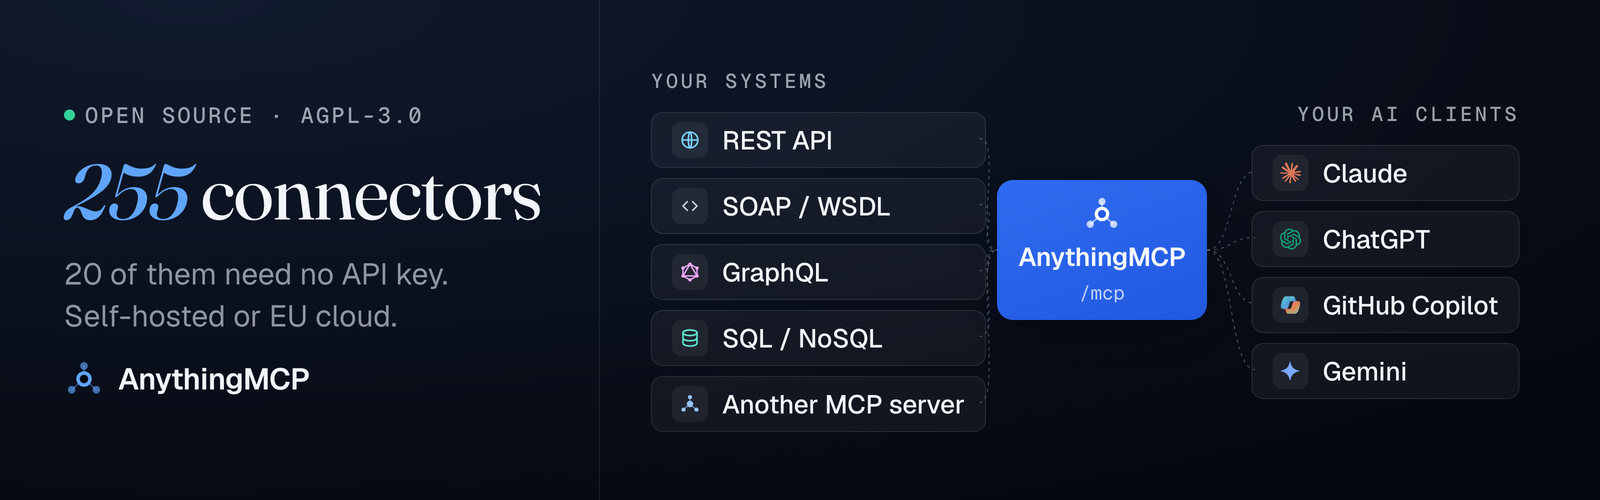
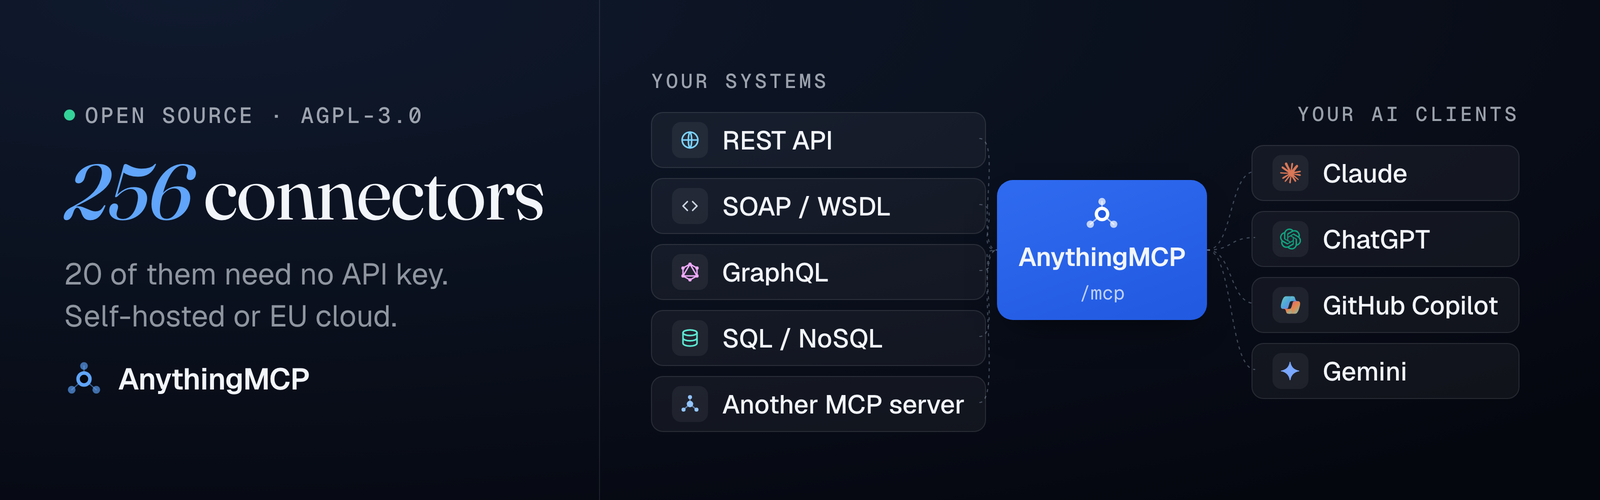
feat(adapters): You.com web search adapter (#638)
* feat(adapters): You.com web search adapter

- add intl/youcom.json wrapping the You.com Web Search API (POST /v1/search,
  POST /v1/news) with X-API-Key auth and the YDC_API_KEY env var
- expose youcom_search (count/freshness/country/language controls, search
  operators) and youcom_news (news-only) tools
- register the adapter in the catalog and quote 191 adapters everywhere the
  CI count gate checks
- add a connector logo

The catalog had no general web-search adapter: agents wired through
AnythingMCP could reach CRMs, logistics and news APIs but not the open web.
This adds that capability through the existing adapter pattern, opt-in at
import time like every other key-based adapter.

* fix(youcom): point news tool at /v1/search with a results.news responseMapping; sync adapter count to 192

- youcom_news now calls the same POST /v1/search endpoint as youcom_search
  and selects results.news via a jmespath responseMapping, per review:
  /v1/news is not a routed path on ydc-index.io.
- merged upstream/main (sentry adapter, #551) so the seven count files
  now read 192 (regenerated catalog.ts via regenerate-catalog.mjs,
  adapter-count --check and validate-adapters both pass).

---------

Changed region(s): [[0.0938, 0.33, 0.3438, 0.45]]

diff --git a/packages/backend/src/adapters/catalog.ts b/packages/backend/src/adapters/catalog.ts
@@ -226,6 +226,7 @@ import * as wordpress from './intl/wordpress.json';
 import * as workable from './intl/workable.json';
 import * as wrike from './intl/wrike.json';
 import * as wufoo from './intl/wufoo.json';
+import * as youcom from './intl/youcom.json';
 import * as youtrack from './intl/youtrack.json';
 import * as youtubeData from './intl/youtube-data.json';
 import * as zabbix from './intl/zabbix.json';
@@ -597,6 +598,7 @@ const RAW_ADAPTERS: AdapterDefinition[] = [
   workable as unknown as AdapterDefinition,
   wrike as unknown as AdapterDefinition,
   wufoo as unknown as AdapterDefinition,
+  youcom as unknown as AdapterDefinition,
   youtrack as unknown as AdapterDefinition,
   youtubeData as unknown as AdapterDefinition,
   zabbix as unknown as AdapterDefinition,

diff --git a/README.md b/README.md
@@ -1,12 +1,12 @@
 <p align="center">
-  <img src="docs/assets/banner.png" alt="AnythingMCP — 255 connectors, 20 of them with no API key. Your REST, SOAP/WSDL, GraphQL, SQL and MCP systems become tools for Claude, ChatGPT, Copilot and Gemini." width="100%" />
+  <img src="docs/assets/banner.png" alt="AnythingMCP — 256 connectors, 20 of them with no API key. Your REST, SOAP/WSDL, GraphQL, SQL and MCP systems become tools for Claude, ChatGPT, Copilot and Gemini." width="100%" />
 </p>
 
 <h1 align="center">AnythingMCP</h1>
 
 <p align="center">
   <strong>Give Claude, ChatGPT and Copilot safe access to the software your company already runs.</strong><br/>
-  255 ready adapters, any REST/SOAP/GraphQL/SQL system without code, on your own infrastructure — and it learns how your systems connect.
+  256 ready adapters, any REST/SOAP/GraphQL/SQL system without code, on your own infrastructure — and it learns how your systems connect.
 </p>
 
 <p align="center">
@@ -260,7 +260,7 @@ AI clients speak MCP, but your systems speak REST, SOAP, GraphQL and SQL. Writin
 
 ## The adapter catalog
 
-255 adapters, exposing 1,800+ tools. **20 need no API key**; the rest ask for your credentials at import and the tools are available immediately. Every one has a setup guide on [anythingmcp.com/guides](https://anythingmcp.com/guides), in seven languages.
+256 adapters, exposing 1,800+ tools. **20 need no API key**; the rest ask for your credentials at import and the tools are available immediately. Every one has a setup guide on [anythingmcp.com/guides](https://anythingmcp.com/guides), in seven languages.
 
 | Category | Examples |
 |---|---|
